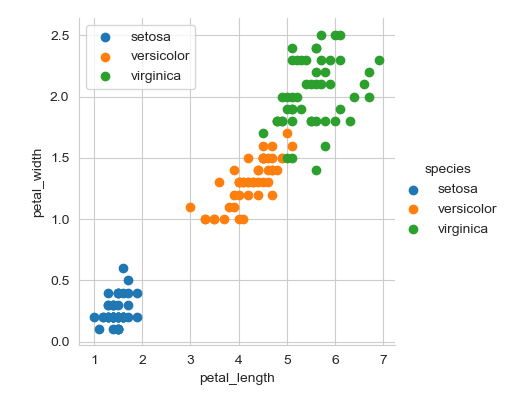
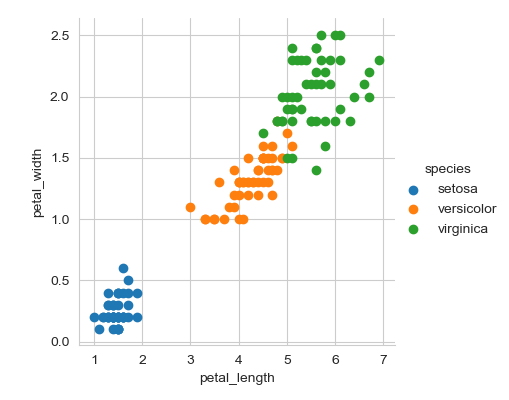
updated code to remove a legend from scatter plot

Changed region(s): [[0.1768, 0.06, 0.3831, 0.24], [0.2652, 0.18, 0.3536, 0.24], [0.3536, 0.21, 0.3831, 0.24]]

diff --git a/analysis.py b/analysis.py
@@ -88,8 +88,6 @@ def scatterplot(var,var1):
         #iris.plot(kind = 'scatter', x=var, y=var1 )
         sns.set_style("whitegrid")
         sns.FacetGrid(iris,hue="species",height =4).map(plt.scatter,var,var1).add_legend()
-        plt.legend()
-        #plt.show()
         plt.savefig("{}_{}_{}.png".format("Scatter_plot",var,var1))
         print("Saved to file ,{}_{}_{}.png".format("Scatter_plot",var,var1))
     except Exception as e:
